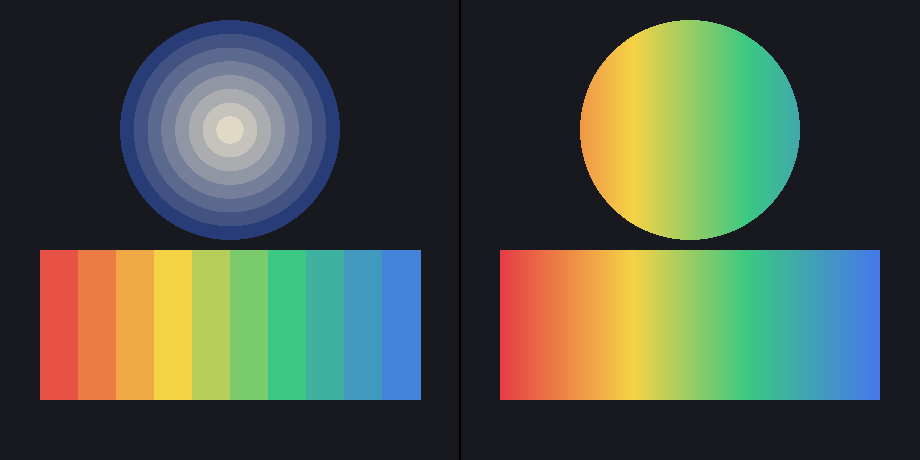
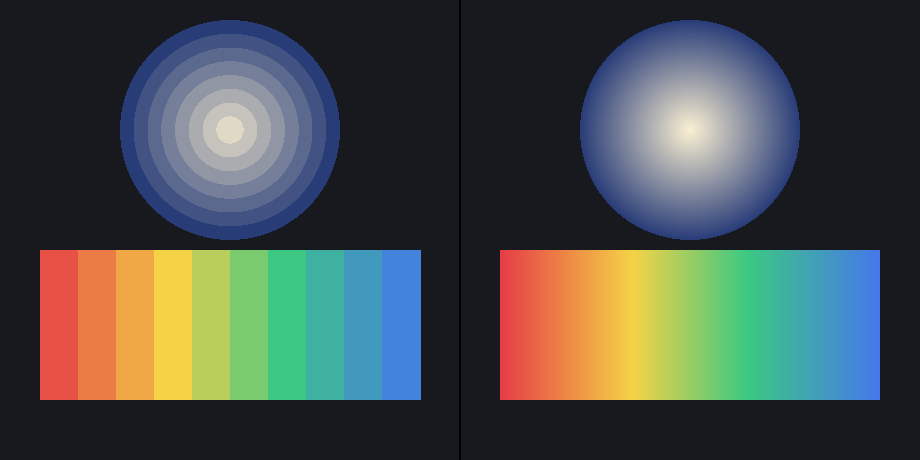
Fix DrawPath batch merge dropping gradient/coverage state
The merge compatibility check ignored shader-gradient and analytic-AA coverage state: a solid fill following a gradient could be folded into the gradient's draw (rendering with the wrong shader), and merging AA geometry silently dropped coverage due to a points/coverage size mismatch. Gradient fills are now never merged, coverage presence must match across a batch, and coverage is concatenated alongside points.

Changed region(s): [[0.6087, 0.0304, 0.8826, 0.5478]]

diff --git a/src/render/Renderer.cpp b/src/render/Renderer.cpp
@@ -249,7 +249,9 @@ void Renderer::flush()
         }
 
         auto *pathCmd = static_cast<DrawPathCommand *>(commands_[i].get());
-        if (pathCmd->data().hasVertexColors()) {
+        if (pathCmd->data().hasVertexColors() || pathCmd->data().hasShaderGradient()) {
+            // Per-vertex colours and shader gradients carry per-shape state that
+            // cannot be shared across a merged draw call, so render individually.
             executeCommand(commands_[i]);
             ++i;
             continue;
@@ -267,6 +269,16 @@ void Renderer::flush()
             auto *nextPathCmd = static_cast<DrawPathCommand *>(commands_[j].get());
             const auto &next = nextPathCmd->data();
             if (next.hasVertexColors()) {
+                break;
+            }
+            if (next.hasShaderGradient()) {
+                // A gradient fill has its own shader state; never fold it into
+                // this batch (and never let a following solid draw inherit it).
+                break;
+            }
+            if (next.hasCoverage() != first.hasCoverage()) {
+                // Analytic-AA coverage must be present (or absent) uniformly so
+                // the concatenated coverage attribute stays aligned with points.
                 break;
             }
             if (next.drawMode != first.drawMode) {
@@ -312,10 +324,16 @@ void Renderer::flush()
 
             DrawPathData merged = first;
             merged.points.reserve(totalPoints);
+            if (first.hasCoverage()) {
+                merged.coverage.reserve(totalPoints / 2);
+            }
 
             for (std::size_t m = i + 1; m < j; ++m) {
                 const auto &next = static_cast<DrawPathCommand *>(commands_[m].get())->data();
                 merged.points.insert(merged.points.end(), next.points.begin(), next.points.end());
+                if (first.hasCoverage()) {
+                    merged.coverage.insert(merged.coverage.end(), next.coverage.begin(), next.coverage.end());
+                }
             }
 
             DrawPathCommand mergedCmd(merged);

diff --git a/examples/aa_showcase/main.cpp b/examples/aa_showcase/main.cpp
@@ -272,15 +272,14 @@ int main(int argc, char **argv)
             glClearColor(0.09f, 0.10f, 0.12f, 1.0f);
             glClear(GL_COLOR_BUFFER_BIT);
 
-            // Divider first so it never inherits a preceding gradient's state.
+            scene(canvas, 0.0f, false);                          // left panel
+            scene(canvas, static_cast<float>(kPanelWidth), true); // right panel
+
             Paint divider;
             divider.setStyle(Paint::Style::FILL);
             divider.setFillColor(Color(0, 0, 0));
             canvas.drawRect(RectF(static_cast<float>(kPanelWidth) - 1.0f, 0.0f, 2.0f,
                                   static_cast<float>(kHeight)), divider);
-
-            scene(canvas, 0.0f, false);                          // left panel
-            scene(canvas, static_cast<float>(kPanelWidth), true); // right panel
             canvas.endFrame();
 
             std::vector<unsigned char> pixels;
